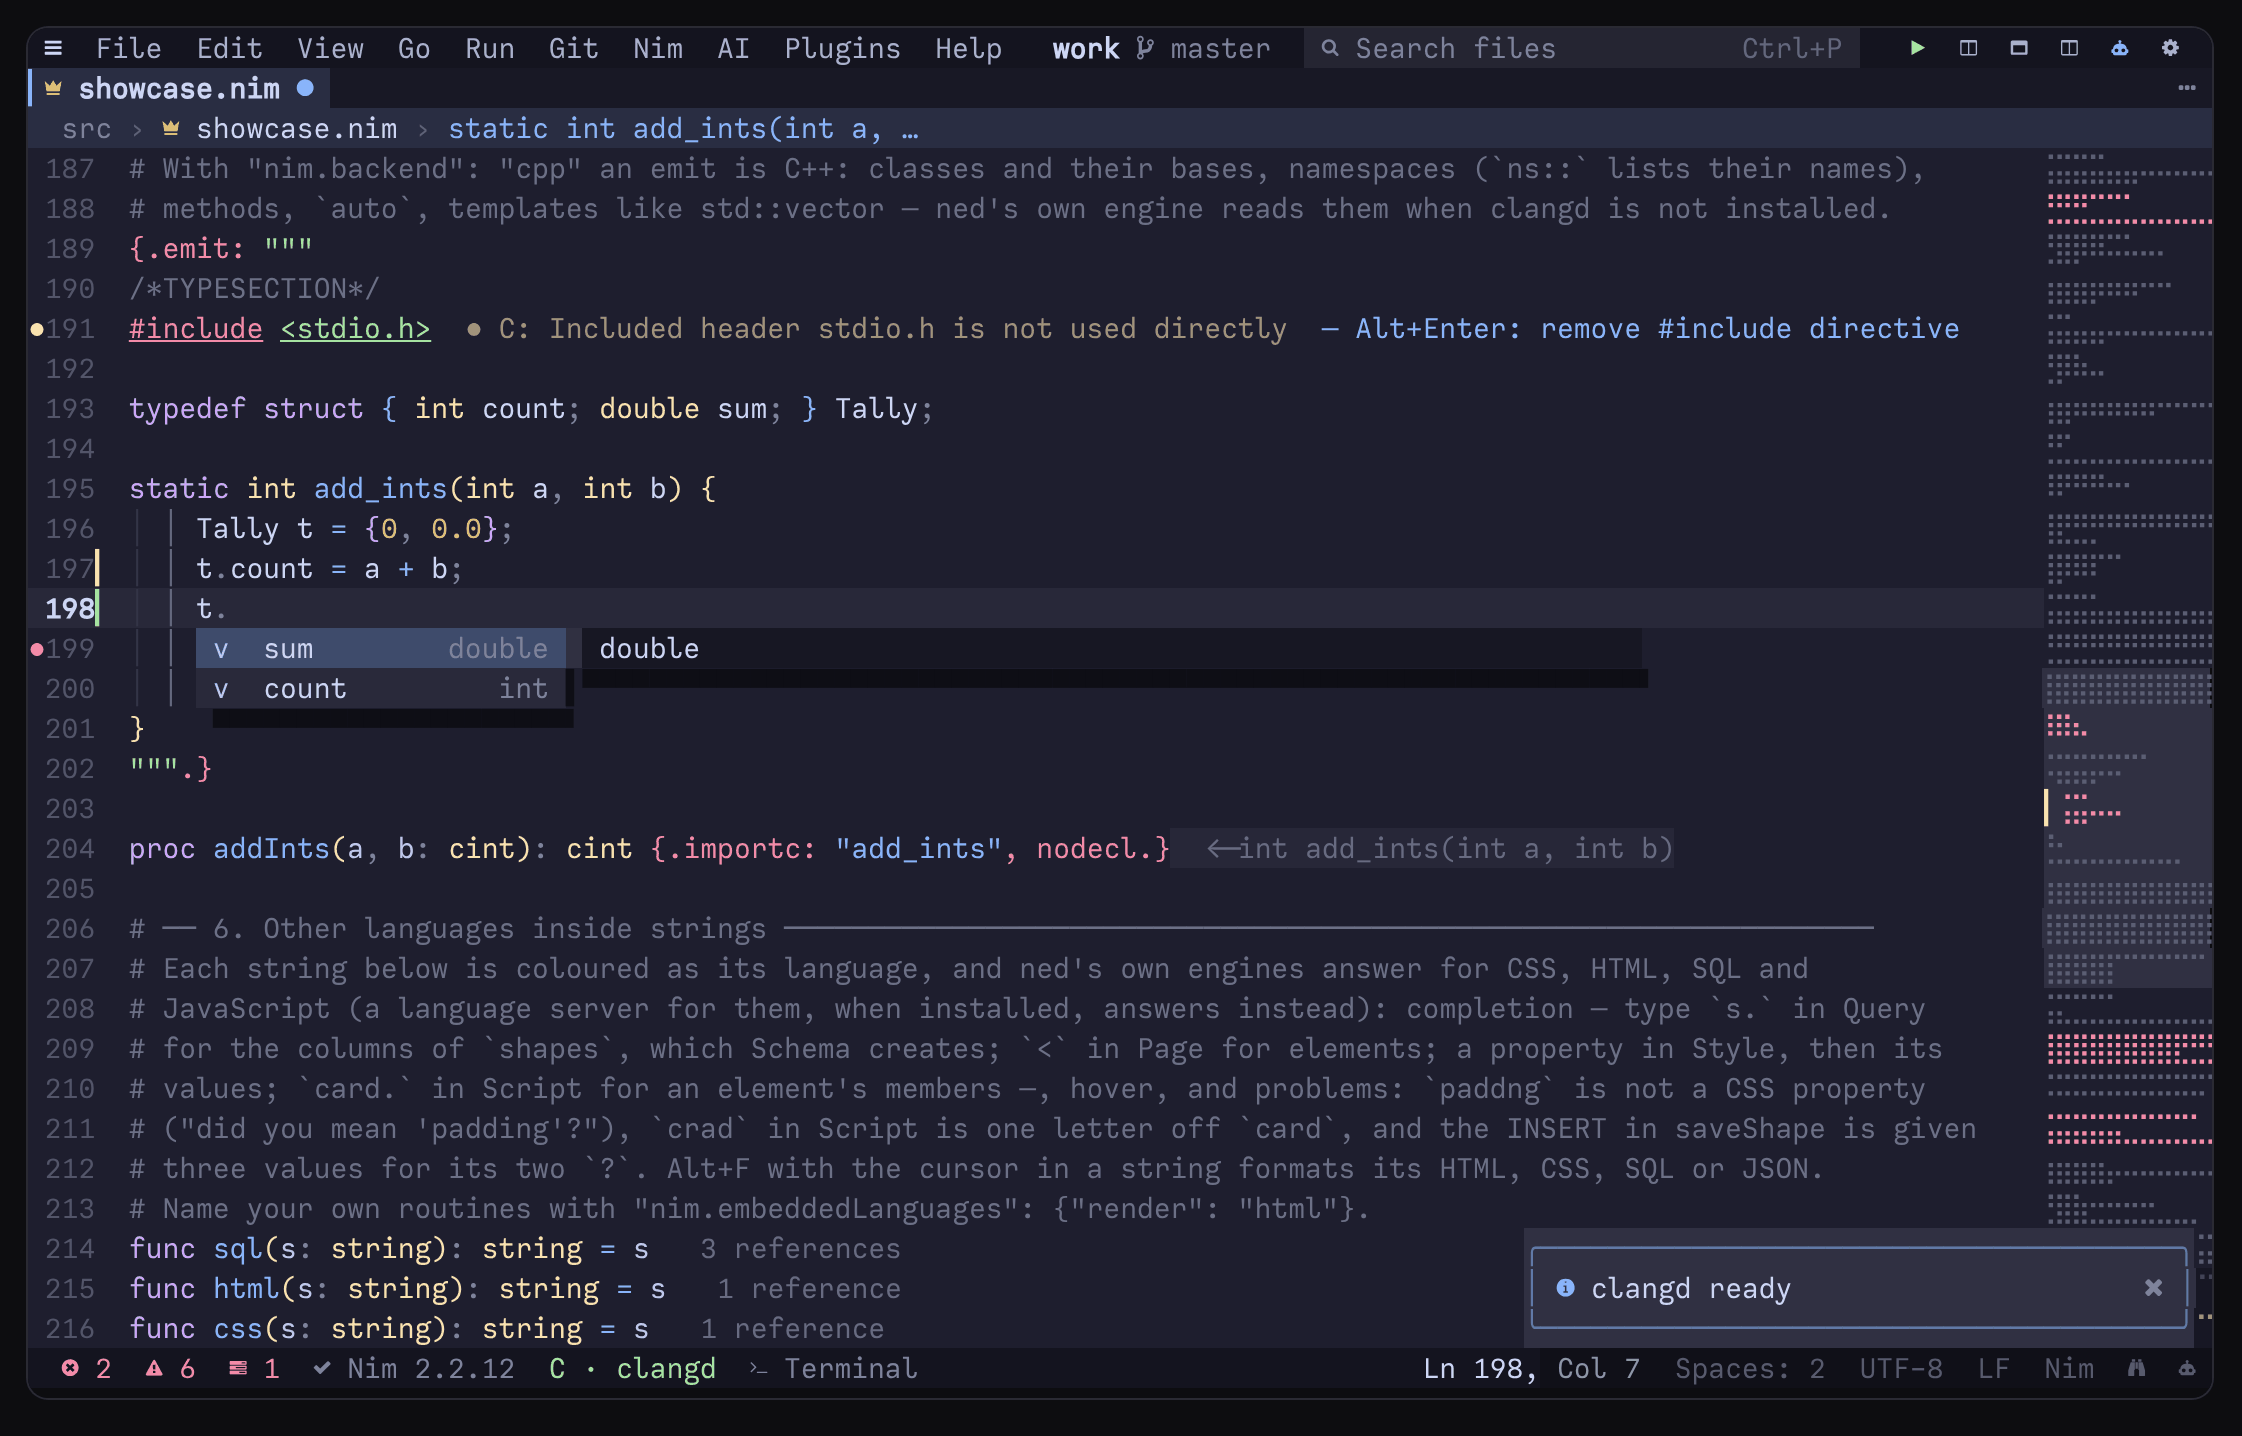
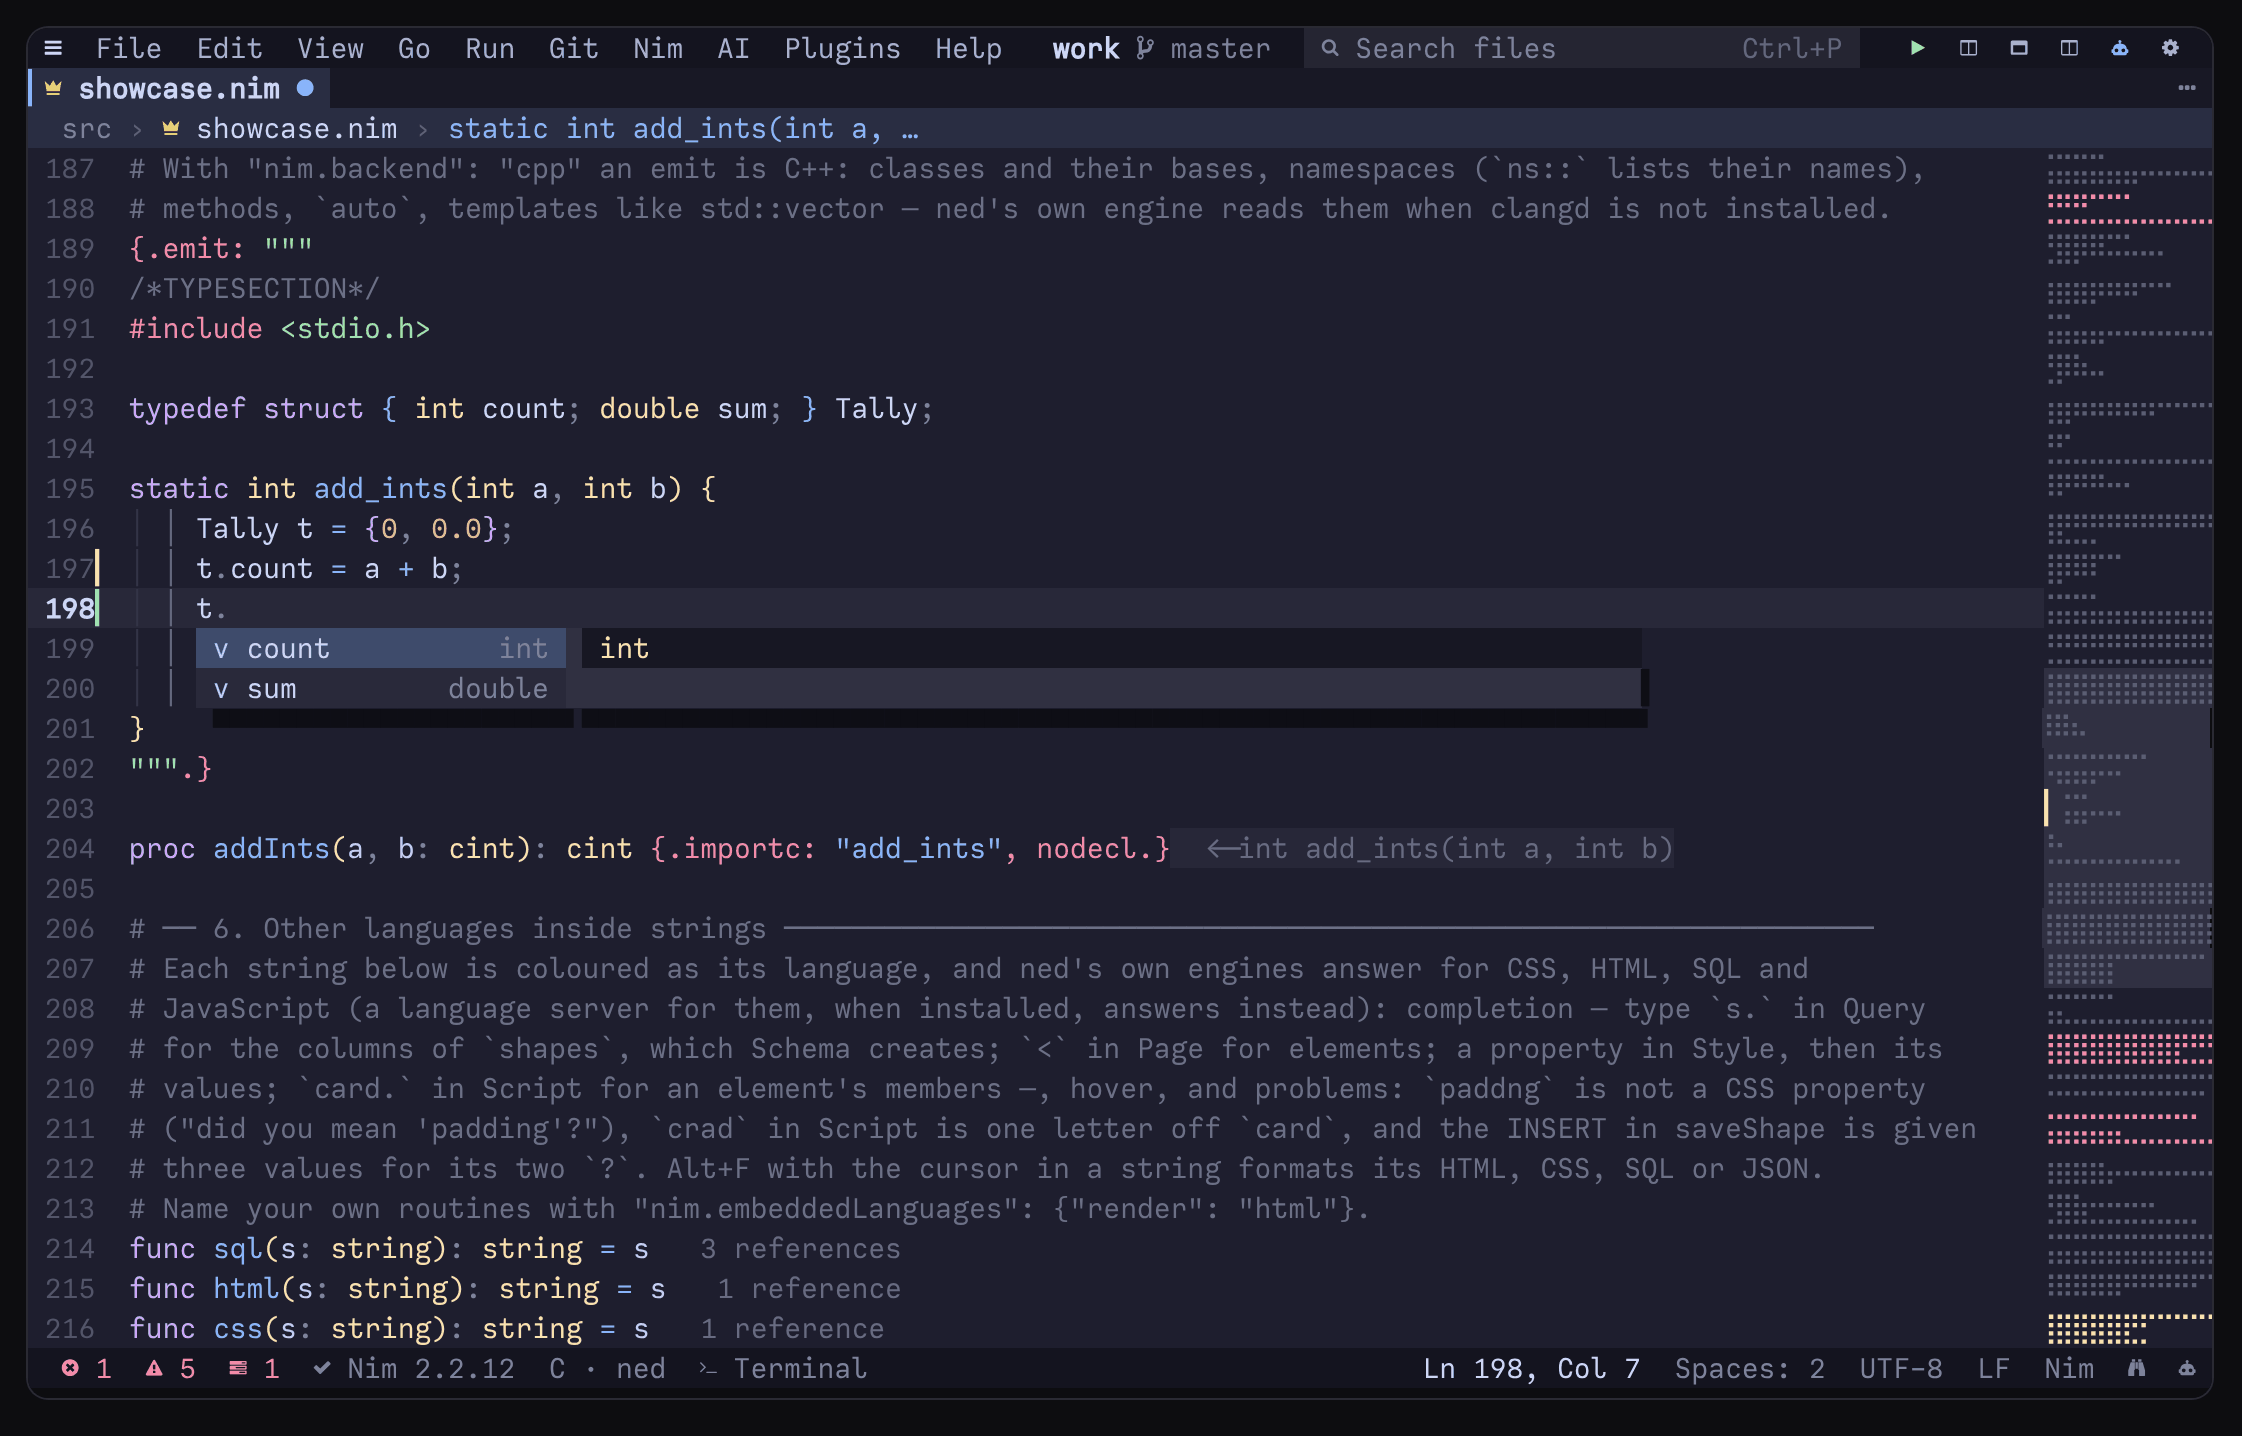
ned 6.41.1

diff --git a/tests/shots/scenes.py b/tests/shots/scenes.py
@@ -327,12 +327,9 @@ def nim_fixes_641():
     snap('nim-fixes-641')
 
 def emit_c_641():
-    """C in a {.emit}: a struct's members completed, as in a C file (by clangd: it must be on PATH)"""
-    if not shutil.which('clangd'):
-        print('   emit-c-641 left out: it shows clangd answering, and clangd is not on PATH'); return
-    showcase('catppuccin-mocha', 130, 34)
+    """C in a {.emit}: a struct's members completed by ned's own C engine (clangd not asked), as in a C file"""
+    showcase('catppuccin-mocha', 130, 34, {"nim.emitClangd": False})
     go(197); keys('End', 'Enter'); text('t.'); time.sleep(1.5)
-    if not re.search(r'count\s+int', screen()): keys('C-Space')
     wait_for(r'count\s+int', 15); time.sleep(1.0)
     snap('emit-c-641')
 

diff --git a/README.md b/README.md
@@ -24,7 +24,7 @@ Made by **Sultan Al Isaiee** ([@foxoman](https://github.com/foxoman)) — [www.f
 
 ## Contents
 
-- [What's new in 6.41](#whats-new-in-641) · [6.40](CHANGELOG.md#whats-new-in-640) · [6.39](CHANGELOG.md#whats-new-in-639) · [6.38](CHANGELOG.md#whats-new-in-638) · [6.37](CHANGELOG.md#whats-new-in-637) · [6.36](CHANGELOG.md#whats-new-in-636) · [6.35](CHANGELOG.md#whats-new-in-635) · [6.34](CHANGELOG.md#whats-new-in-634) · [6.33](CHANGELOG.md#whats-new-in-633) · [6.32](CHANGELOG.md#whats-new-in-632) · [older releases](CHANGELOG.md)
+- [What's new in 6.41.1](#whats-new-in-6411) · [6.41](#whats-new-in-641) · [6.40](CHANGELOG.md#whats-new-in-640) · [6.39](CHANGELOG.md#whats-new-in-639) · [6.38](CHANGELOG.md#whats-new-in-638) · [6.37](CHANGELOG.md#whats-new-in-637) · [6.36](CHANGELOG.md#whats-new-in-636) · [6.35](CHANGELOG.md#whats-new-in-635) · [6.34](CHANGELOG.md#whats-new-in-634) · [6.33](CHANGELOG.md#whats-new-in-633) · [6.32](CHANGELOG.md#whats-new-in-632) · [older releases](CHANGELOG.md)
 - [Features](#features)
 - [Installing](#installing)
 - [First steps](#first-steps)
@@ -32,6 +32,29 @@ Made by **Sultan Al Isaiee** ([@foxoman](https://github.com/foxoman)) — [www.f
 - [Contributing](#contributing)
 
 ---
+
+## What's new in 6.41.1
+
+- **A struct's members in C inside an `{.emit}`.** After `.` and `->`, completion lists the members of a struct or a
+  union, and the hover of a member shows it, from ned's own C engine — no clangd needed, as in a `.c` file.
+- **Ctrl+P puts the file you name first.** Typing a file's whole name (`demo.nim`) opens that file, not a longer name
+  that starts with it (`demo.nimble`).
+- **Nim 2.4's names.** Nim 2.4 writes a proc's name into the C differently (`shout_u0__app`, where Nim 2.2 wrote
+  `shout__app_u1`): Compiler Explorer, the view of a program Nim built, the debugger's stop when a global changes and
+  the memory checks' stacks read both, and show Nim's names again.
+- **The debugger with Nim 2.4.** Nim 2.4 writes a line's C over several lines, and the C compiler took the later
+  ones for the Nim lines below: a breakpoint stopped before the line's variables were set, a step went to a line that
+  had not run, and Compiler Explorer's shading and the memory checks' stacks were a few lines out. ned now builds for
+  the debugger, the program view, Compiler Explorer and the memory checks with every line of that C under its own
+  Nim line, as with Nim 2.2 — and C in an `{.emit}` keeps its own lines, so a breakpoint there stops on the line it
+  is on (a top-level emit's was one line off with Nim 2.2 too).
+- **Benchmark a call and runnableExamples with Nim 2.4.0.** Both build a program read from ned, which Nim 2.4.0's new
+  separate code generator could not find; they work again.
+- **Nim 2.4's answers, as ned's own.** A type hint shows an array by its length (`array[2, Person]`, not
+  `array[0..1, Person]`), and Go to definition on a name a template made goes to the line that calls the template.
+- **Compiler Explorer on macOS shows the code.** clang there puts it in a section ned left out, so the view was empty.
+- **For contributors.** GitHub's tests pass with Nim 2.4 — the version it installs: a few checks no longer depend on
+  what the machine has installed, its SSH server starts on a fresh machine, and macOS has its own speed limits.
 
 ## What's new in 6.41
 
@@ -227,7 +250,7 @@ ned
 ```
 
 or, from the project folder: `nimble termux` (ned, with `nedfmt` and `nedls` beside it) — or a ready-made package,
-`pkg install ./ned_6.41.0_aarch64.deb` (ned, nedls, nedfmt; the example plugins in `$PREFIX/share/ned/plugins`):
+`pkg install ./ned_6.41.1_aarch64.deb` (ned, nedls, nedfmt; the example plugins in `$PREFIX/share/ned/plugins`):
 `nimble termuxdeb` makes it on a Linux machine (with zig).
 
 The Nim IDE features need nothing more: the engine is built in, and `nim check` does the rest.

diff --git a/docs/blog/announcing-ned.md b/docs/blog/announcing-ned.md
@@ -1,6 +1,6 @@
 # Announcing ned, a terminal code editor and Nim IDE
 
-*By Foxoman. This post comes with ned 6.41.0.*
+*By Foxoman. This post comes with ned 6.41.1.*
 
 ![A Nim file in ned: the Files dock, references and types in grey beside the code, the engine's own checks, the minimap (nim-crown theme)](../../screenshots/hero-641.png)
 
@@ -74,13 +74,14 @@ The [Nim IDE guide](../guide/nim.md) has the rest.
 Nim code often holds other languages: C in an `{.emit}`, SQL in a string, a piece of HTML. ned edits each as its own
 language, right there in the `.nim` file.
 
-**C in `{.emit}`** is edited as C: its own colours and indentation, `//` comments, completion from its `#include`s and
-`nimbase.h`, hover, Go to definition between a Nim wrapper and the C function it imports (and back), the C
-compiler's errors on the emit's own lines, and Alt+F to format it. With clangd installed, clangd answers inside the
-emit as in a C file: its completion, errors while you type and their fixes. A Nim name in the emit's backticks is
-completed, hovered and renamed with the Nim code. With `"nim.backend": "cpp"` an emit is C++.
+**C in `{.emit}`** is edited as C: its own colours and indentation, `//` comments, completion from its `#include`s
+and `nimbase.h` and of a struct's members, hover, Go to definition between a Nim wrapper and the C function it
+imports (and back), the C compiler's errors on the emit's own lines, and Alt+F to format it. ned's own C engine
+answers, with nothing to install; with clangd installed, clangd answers instead, as in a C file: its completion,
+errors while you type and their fixes. A Nim name in the emit's backticks is completed, hovered and renamed with the
+Nim code. With `"nim.backend": "cpp"` an emit is C++.
 
-![C inside a Nim `{.emit}`: a struct's members completed by clangd, and its warning on an `#include` with the fix (catppuccin-mocha theme)](../../screenshots/emit-c-641.png)
+![C inside a Nim `{.emit}`: a struct's members completed by ned's own C engine, nothing installed (catppuccin-mocha theme)](../../screenshots/emit-c-641.png)
 
 **Wrapping C.** Go to definition on an `importc` proc opens the C prototype in its header; the C signature is shown
 dimmed after each wrapper, and the wrappers are checked against their headers. *Nim: wrap a C header…* writes the Nim
@@ -180,11 +181,11 @@ nimble install https://github.com/foxoman/ned
 
 Once ned is in Nim's package list, `nimble install ned` will do the same.
 
-**3. The Termux package.** Download `ned_6.41.0_aarch64.deb` from the
+**3. The Termux package.** Download `ned_6.41.1_aarch64.deb` from the
 [releases](https://github.com/foxoman/ned/releases), then install it. It brings ned, nedls and nedfmt.
 
 ```sh
-pkg install ./ned_6.41.0_aarch64.deb
+pkg install ./ned_6.41.1_aarch64.deb
 ```
 
 **4. From source.**

diff --git a/docs/FAQ.md b/docs/FAQ.md
@@ -24,7 +24,7 @@ found and how to install the rest. See [Installing](../README.md#installing).
 **How do I install it on Termux?** Build it on the device: `curl -fsSL
 https://raw.githubusercontent.com/foxoman/ned/main/install.sh | sh` does it with nimble, or by hand `pkg install nim
 git`, then `nim c -d:release --opt:speed -d:strip -o:$PREFIX/bin/ned src/ned.nim` (or `nimble termux` in the project
-folder). A ready-made package, if you have one — `pkg install ./ned_6.41.0_aarch64.deb` — brings ned, nedls and
+folder). A ready-made package, if you have one — `pkg install ./ned_6.41.1_aarch64.deb` — brings ned, nedls and
 nedfmt, and the example plugins in `$PREFIX/share/ned/plugins`.
 
 **And on Linux, macOS, Windows?** Linux and macOS build from the source with one `nim c` (or `nimble install`).

diff --git a/editors/zed/PUBLISHING.md b/editors/zed/PUBLISHING.md
@@ -23,7 +23,7 @@ For the maintainer. Zed lists an extension once a pull request adds it to
    ```toml
    [nedls-language-server]
    submodule = "extensions/nedls-language-server"
-   version = "6.41.0"
+   version = "6.41.1"
    ```
 
    The version must be the one in this repository's `extension.toml` at that commit; the submodule's URL must be
